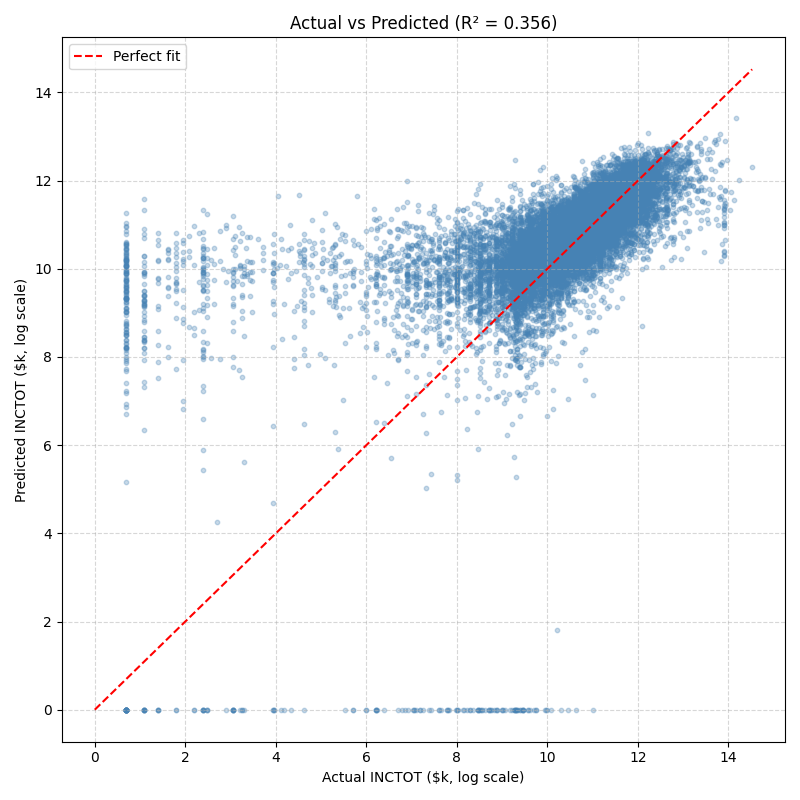
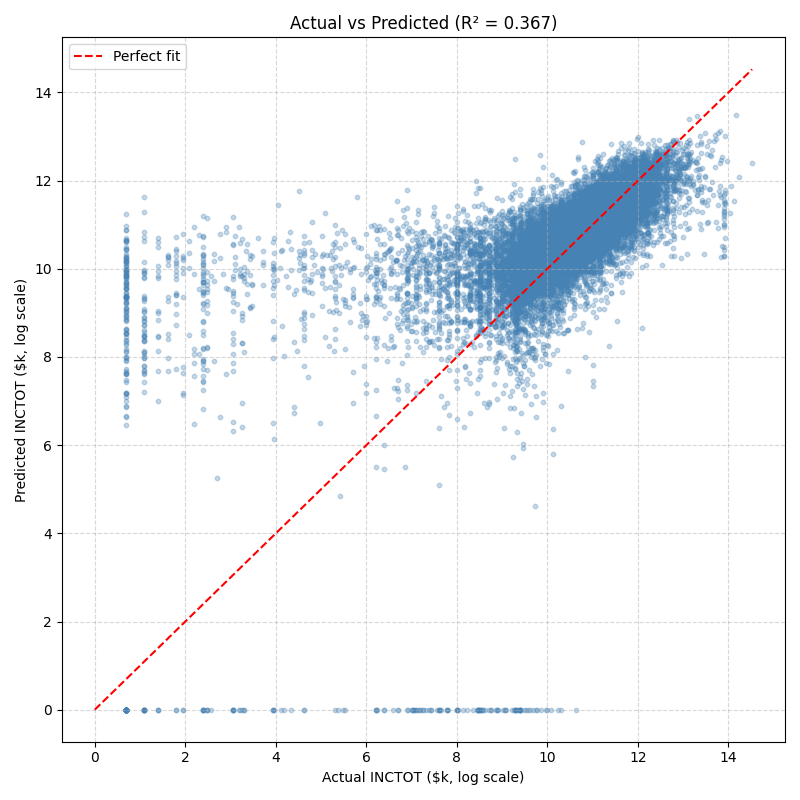
improve gb model by hyperparameter tuning

diff --git a/src/models/model_gb.py b/src/models/model_gb.py
@@ -6,6 +6,7 @@ Train a Gradient Boosting model to predict individual income.
 import pandas as pd
 import numpy as np
 from sklearn.ensemble import GradientBoostingRegressor
+from sklearn.model_selection import GridSearchCV
 from sklearn.metrics import r2_score, mean_squared_error, mean_absolute_error
 import matplotlib.pyplot as plt
 
@@ -31,26 +32,44 @@ def load_data():
     return X_train, X_test, y_train, y_test
 
 
+from sklearn.model_selection import GridSearchCV
+
 def train_gradient_boosting(X_train, y_train):
     """
-    Train a Gradient Boosting Regressor using predefined hyperparameters.
-    Args:
-        X_train: Training features
-        y_train: Training target
+    Train Gradient Boosting with hyperparameter tuning using GridSearchCV.
     Returns:
-        Trained GradientBoostingRegressor model
+        Best estimator found by grid search
     """
 
-    # Initialize model with reasonable baseline hyperparameters
-    model = GradientBoostingRegressor(
-        n_estimators=300,      # Number of boosting stages
-        learning_rate=0.05,    # Shrinks contribution of each tree
-        max_depth=3,           # Depth of individual regression trees
-        random_state=42
+    # Base model
+    gbr = GradientBoostingRegressor(random_state=42)
+
+    # Hyperparameter search space
+    param_grid = {
+        'n_estimators': [100, 200, 300, 400, 500],
+        'learning_rate': [0.01, 0.03, 0.05, 0.1],
+        'max_depth': [2, 3, 4]
+    }
+
+    # Grid search
+    grid_search = GridSearchCV(
+        estimator=gbr,
+        param_grid=param_grid,
+        cv=3,
+        scoring='r2',
+        n_jobs=-1,
+        verbose=2
     )
 
-    model.fit(X_train, y_train)
-    return model
+    # Fit grid search
+    grid_search.fit(X_train, y_train)
+
+    print("\nBest parameters found:", grid_search.best_params_)
+    print("Best CV R²:", grid_search.best_score_)
+
+    # Return best model
+    return grid_search.best_estimator_
+
 
 
 def evaluate(model, X_test, y_test):
